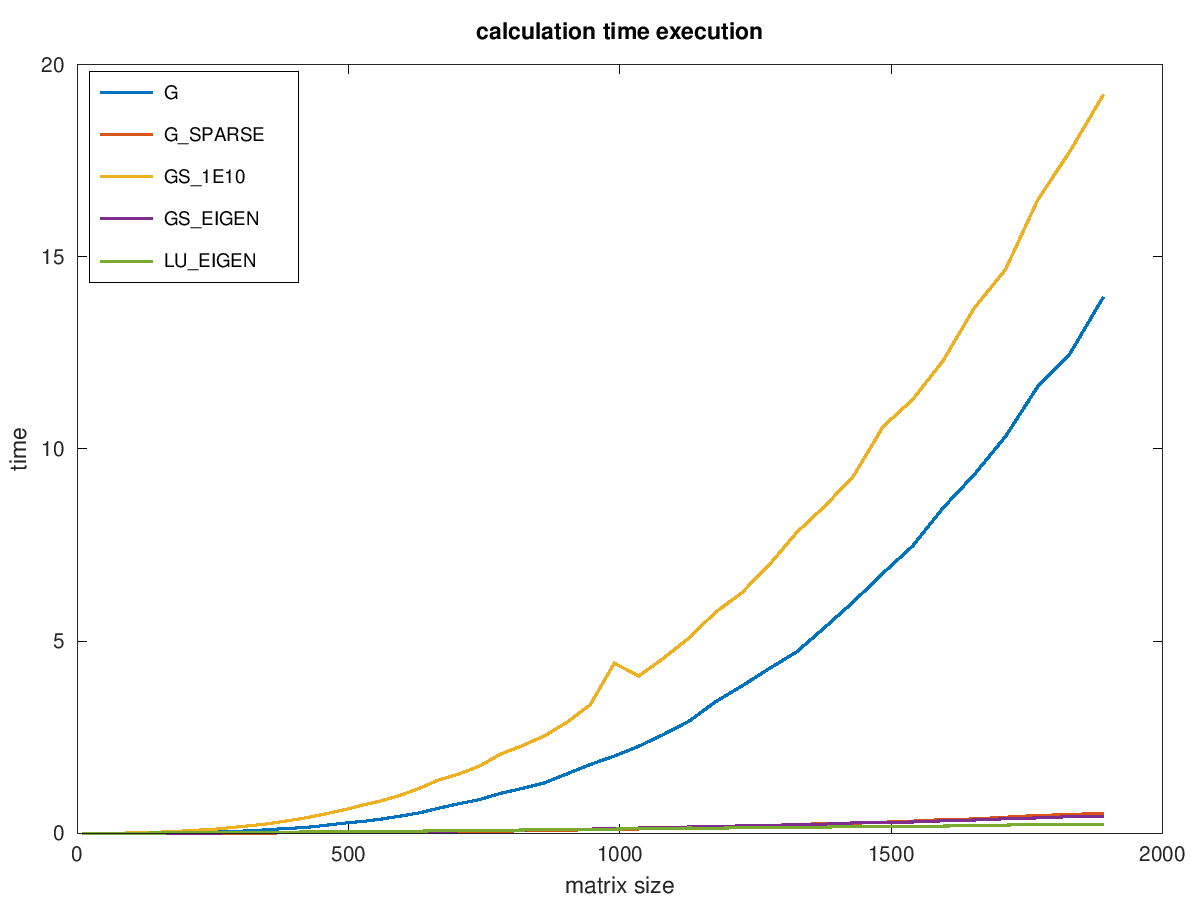
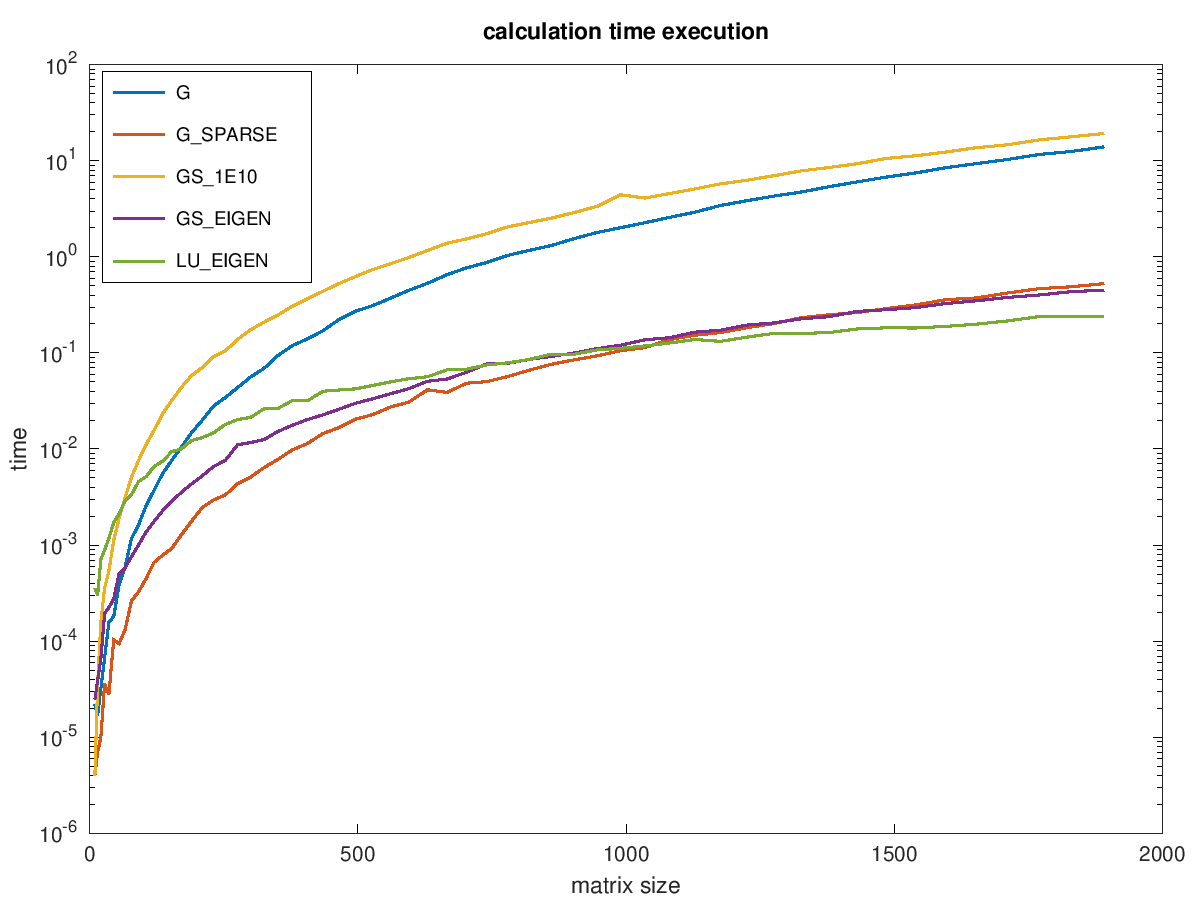
fixes

diff --git a/04-approximations/src/scripts/00_plots_with_octave.m b/04-approximations/src/scripts/00_plots_with_octave.m
@@ -19,11 +19,11 @@ seidel_eigen_time = gs_eigen(3:60,3);
 lu_eigen_time = lu_eigen(3:60,3);
 all_time = [(gauss_time), (gauss_sparse_time), (seidel_1e10_time), (seidel_eigen_time), (lu_eigen_time)];
 
-plot(matrix_size, all_time, "linewidth", 4);
+semilogy(matrix_size, all_time, "linewidth", 4);
 ylabel ("time");
 xlabel ("matrix size");
 title ("calculation time execution");
-legend ("G", "G\\_SPARSE    ", "GS\\_1E10", "GS\\_EIGEN", "LU\\_EIGEN", "location", "northwest");
+legend ("G", "G\\_SPARSE    ", "GS\\_1E-10", "GS\\_EIGEN", "LU\\_EIGEN", "location", "northwest");
 
 print -dpng ../../report/plots/01_calc_time_execution_all_methods.png;
 
@@ -39,7 +39,7 @@ plot(matrix_size, gen_all_time, "linewidth", 4);
 ylabel ("time");
 xlabel ("matrix size");
 title ("generate time execution");
-legend ("G", "G\\_SPARSE    ", "GS\\_1E10", "GS\\_EIGEN", "LU\\_EIGEN", "location", "northwest");
+legend ("G", "G\\_SPARSE    ", "GS\\_1E-10", "GS\\_EIGEN", "LU\\_EIGEN", "location", "northwest");
 
 print -dpng ../../report/plots/02_gen_time_execution_all_methods.png;
 
@@ -55,7 +55,7 @@ plot(matrix_size, all_abs, "linewidth", 4);
 ylabel ("abs error");
 xlabel ("matrix size");
 title ("calculation abs error");
-legend ("G", "G\\_SPARSE    ", "GS\\_1E10", "GS\\_EIGEN", "LU\\_EIGEN", "location", "northwest");
+legend ("G", "G\\_SPARSE    ", "GS\\_1E-10", "GS\\_EIGEN", "LU\\_EIGEN", "location", "northwest");
 
 print -dpng ../../report/plots/03_calc_abs_error_all_methods.png;
 
@@ -85,7 +85,7 @@ plot(matrix_size, gen_all_abs, "linewidth", 4);
 ylabel ("abs error");
 xlabel ("matrix size");
 title ("generate abs error");
-legend ("G", "G\\_SPARSE    ", "GS\\_1E10", "GS\\_EIGEN", "LU\\_EIGEN", "location", "northwest");
+legend ("G", "G\\_SPARSE    ", "GS\\_1E-10", "GS\\_EIGEN", "LU\\_EIGEN", "location", "northwest");
 
 print -dpng ../../report/plots/05_gen_abs_error_all_methods.png;
 
